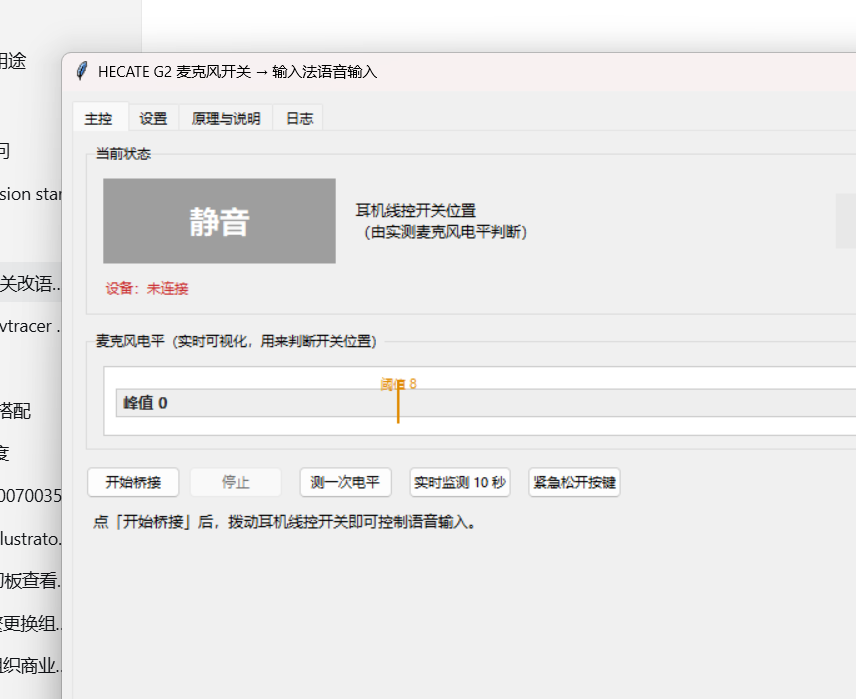
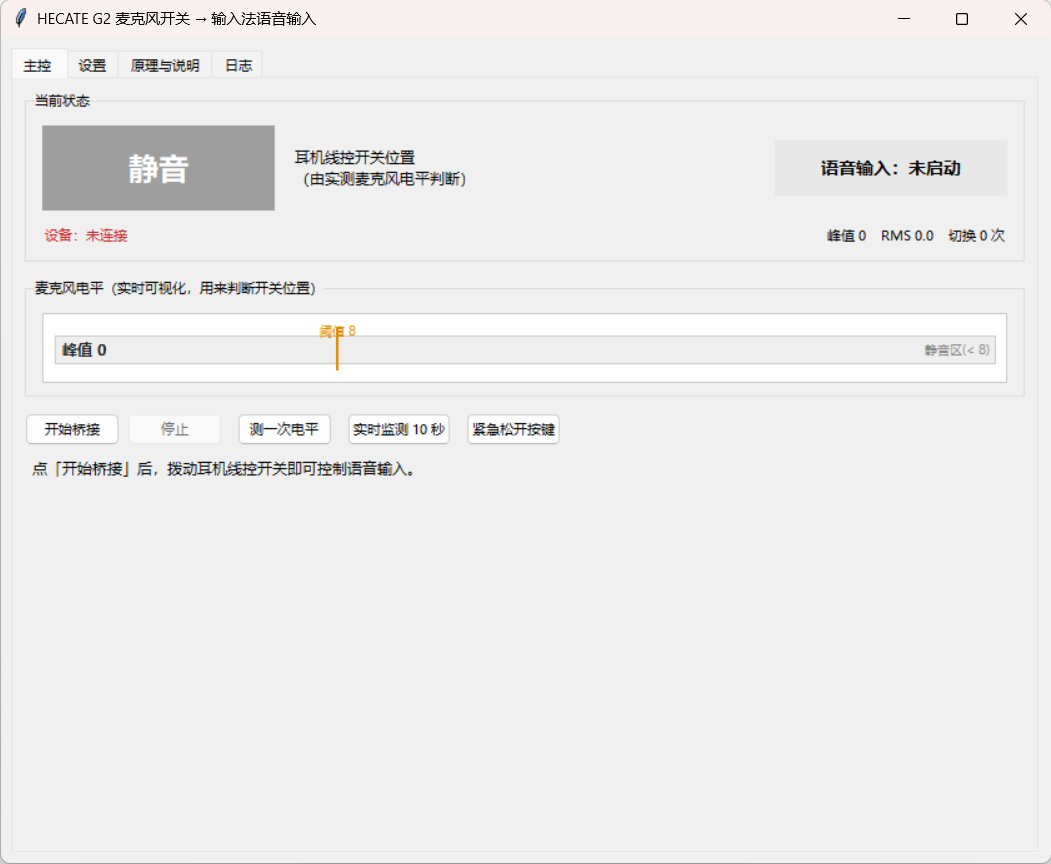
update README.md.

diff --git a/README.md b/README.md
@@ -15,7 +15,7 @@
 > Gitee（国内镜像，下载更快）: <https://gitee.com/madjohnny/hecate-g2-mic-switch>
 
 ![界面截图](docs/images/screenshot-main.png)
-![界面截图](docs/images/screenshot-main.png)
+![1](docs/images/screenshot-main.png)
 ---
 
 ## 这是什么
